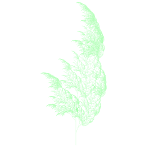
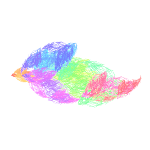
fractals: let there colors

Changed region(s): [[0.08, 0.0, 0.96, 0.8533], [0.5067, 0.1867, 0.5333, 0.2133]]

diff --git a/examples/new_examples/fractals.html b/examples/new_examples/fractals.html
@@ -78,7 +78,9 @@
             draw = function (lvl) {
                 var lengths = [], tlength, angles = [], fun,
                     mix = 0, max = 0, miy = 0, may = 0,
+                    counter = 0, parts, it = 0, nonit = 0,
                     check_boundaries = function () {
+                        counter++;
                         if (t.X() < mix) {
                             mix = t.X();
                         }
@@ -108,17 +110,29 @@
                 for (i = 0; i < cp.length - 1; i++) {
                     lengths.push(cp[i].Dist(cp[i+1]));
 
+                    if (cs[i].state === 0) {
+                        it++;
+                    } else if (cs[i].state === 1) {
+                        nonit++;
+                    }
+
                     if (i !== cp.length - 2) {
                         angles.push(JXG.Math.Geometry.trueAngle(cp[i], cp[i+1], cp[i+2]) - 180);
                     }
                 }
-                
+
+                parts = Math.pow(it, lvl-1)*(nonit + it);
+
                 tlength = cp[0].Dist(cp[cp.length-1]);
                 angles.push((2*Math.PI - cs[cs.length-2].getAngle() + cs[cs.length-1].getAngle())*57.295779513082323);
 
                 // compile control room configuration
                 fun = function (x, lvl) {
                     var i;
+
+                    if (counter % 100 === 0) {
+                        t.setPenColor(JXG.hsv2rgb(counter/parts*360, 0.6, 0.9));
+                    }
 
                     if (lvl < 1) {
                         t.fd(x);
@@ -173,8 +187,12 @@
                     points: [[0, -6], [0, -3], [1, 5], [0, -4], [-3, 0], [0, -5], [2, 0.5], [0, 6]],
                     states: [1, 0, 2, 0, 2, 0, 0]
                 },
+                Bird: {
+                    points: [[0, -6], [0, -3], [1, 5], [0, -4], [-3, 0], [0, -5], [2, 0.5], [0, 6]],
+                    states: [0]
+                },
                 Something: {
-                    points: [[-6, 0], [-3, 2], [0, 0], [3, 2], [6, 0]],
+                    points: [[-6, 0], [-3, 2], [0, -5], [3, 2], [6, 0]],
                     states: [0]
                 },
                 "Sierpinski Triangle": {
@@ -205,7 +223,6 @@
                     cs[i].state = states[i % states.length];
                 }
                 cs.push(control.create('segment', [cp[0], cp[cp.length-1]], {visible: false}));
-                //cs[cs.length - 1].state = states[(cs.length - 1) % states.length];
 
                 control.addHook(function (e) {
                     var cPos = this.getRelativeMouseCoordinates(e),

diff --git a/examples/new_examples/css/dark.css b/examples/new_examples/css/dark.css
@@ -167,4 +167,5 @@ button:hover {
 ul.list-2c {
     list-style-type: none;
     margin-top: -20px;
+    margin-left: -20px;
 }
